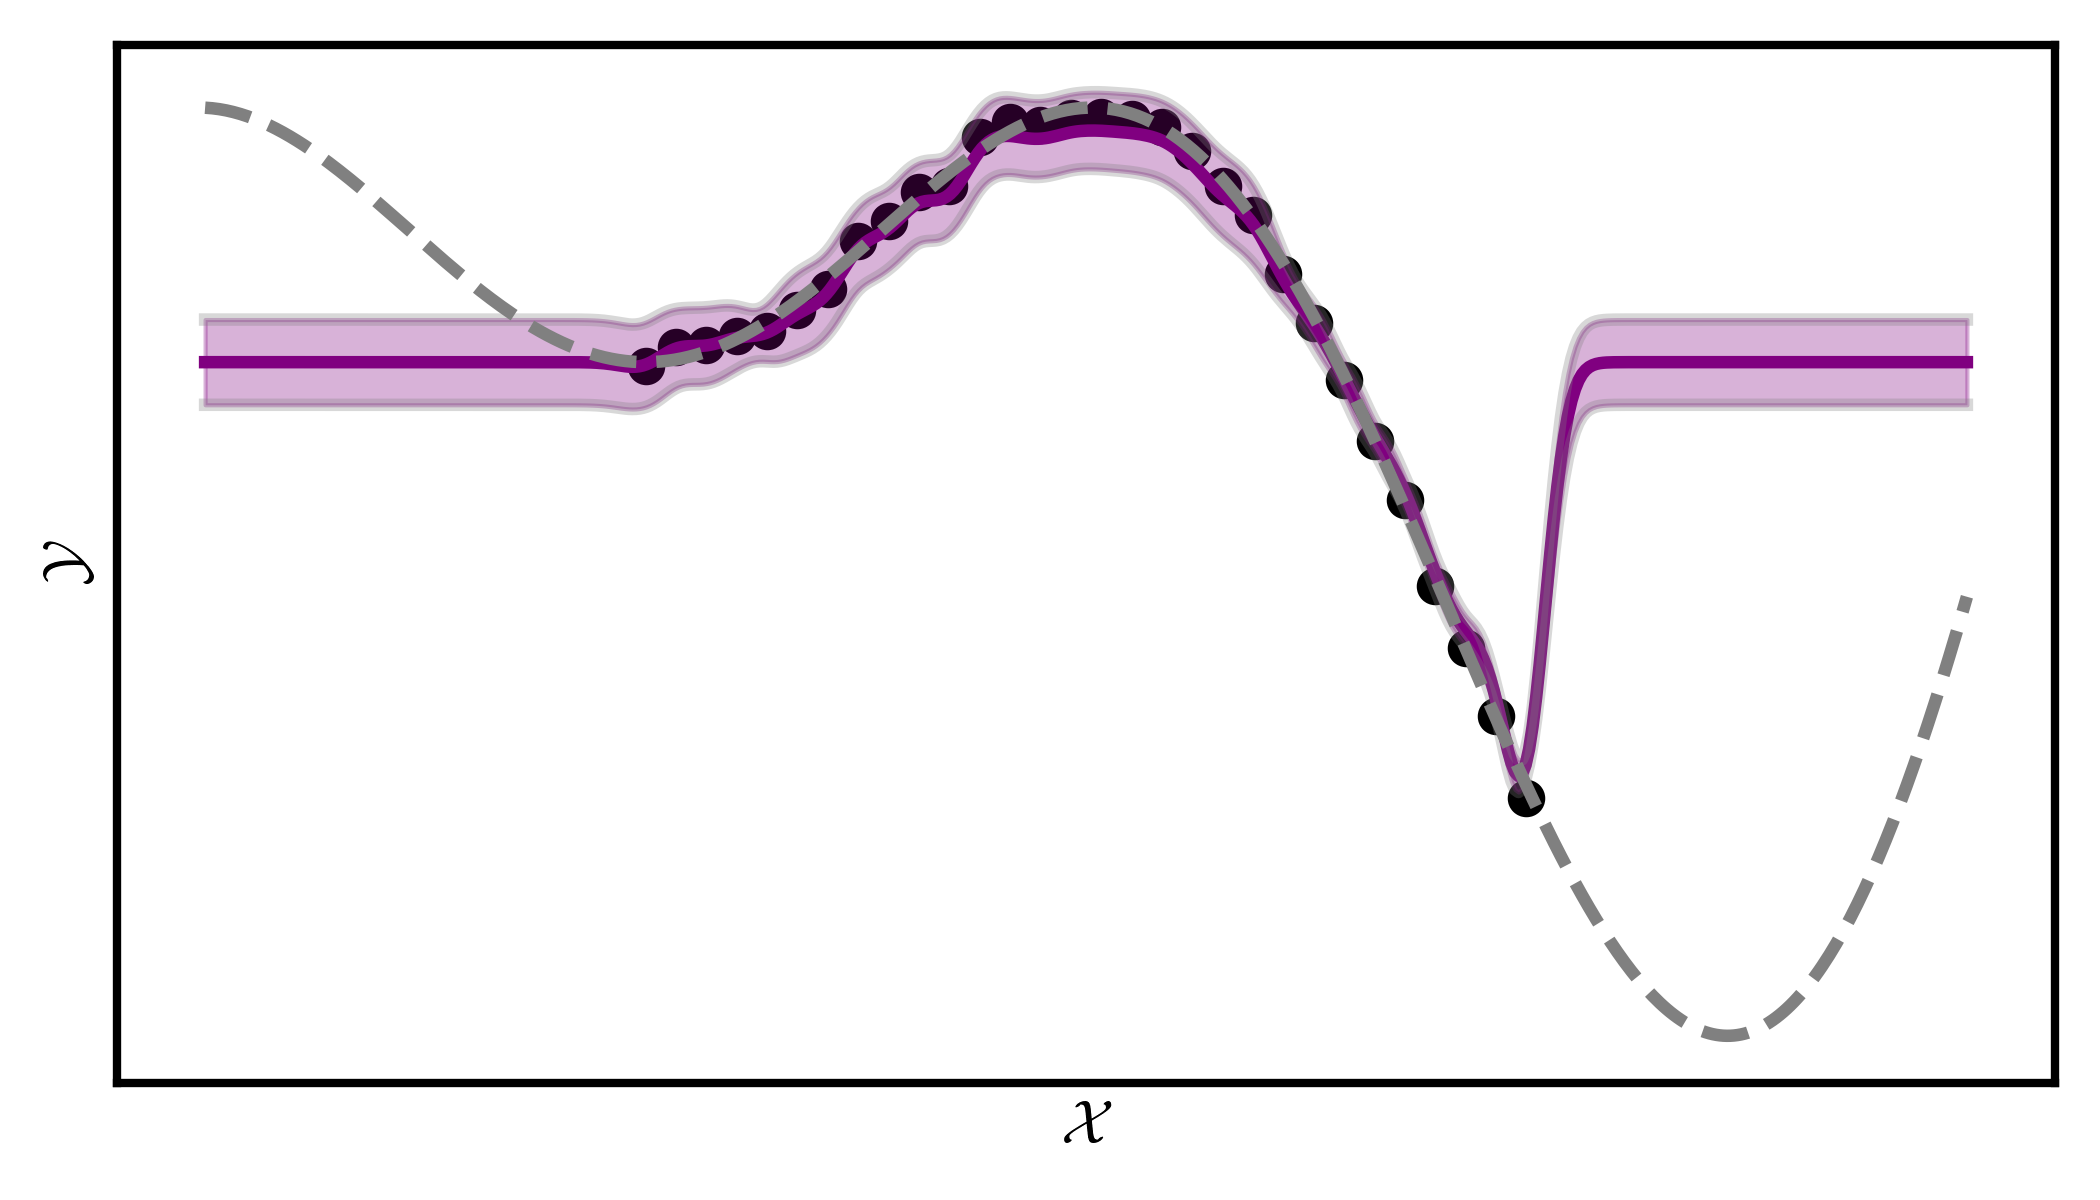
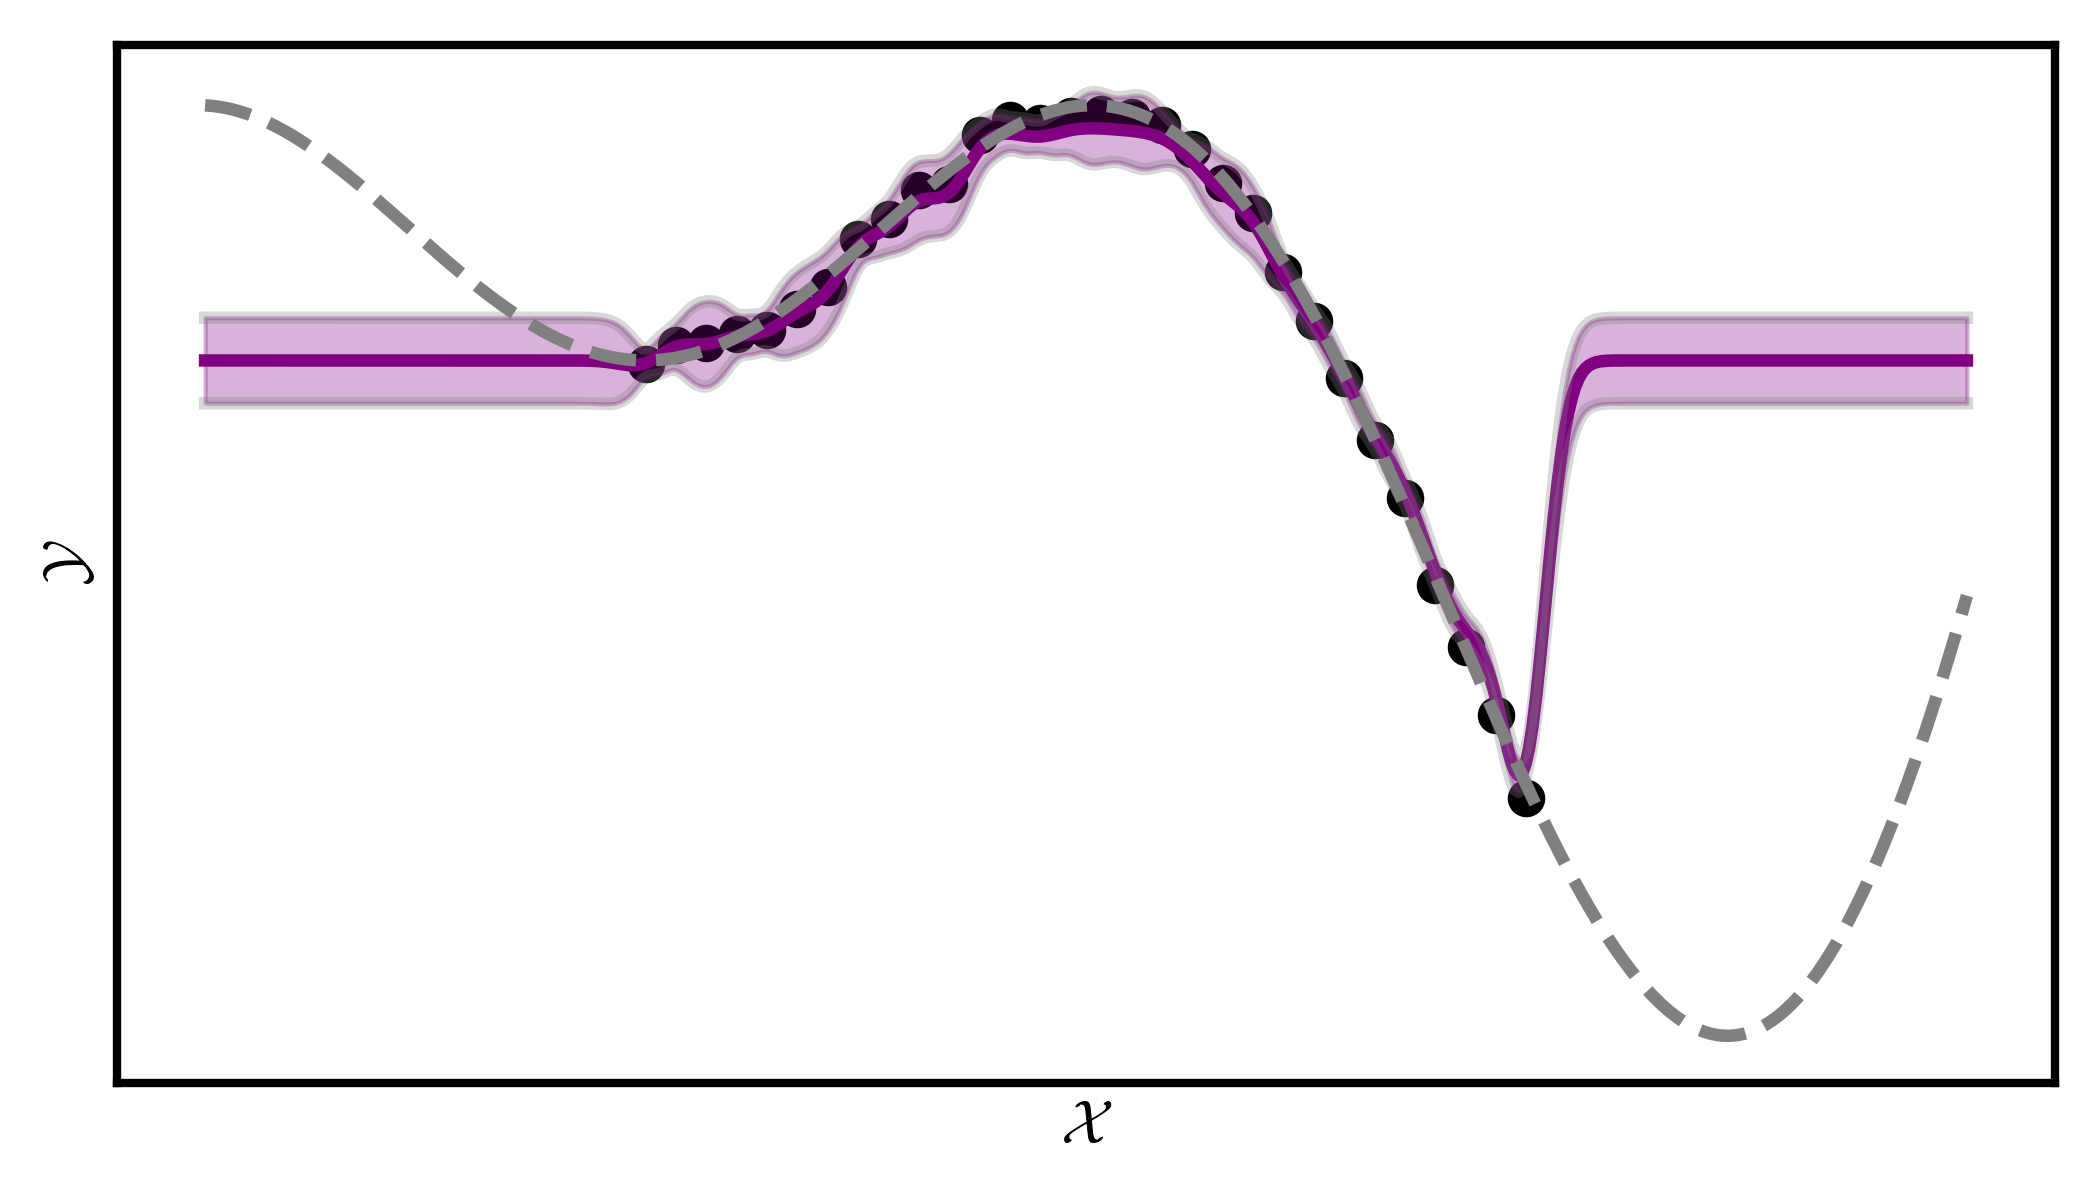
minor changes

Changed region(s): [[0.0929, 0.0617, 0.65, 0.37], [0.7429, 0.2467, 0.9286, 0.3392], [0.65, 0.37, 0.681, 0.4317]]

diff --git a/examples/example_gpr.py b/examples/example_gpr.py
@@ -6,11 +6,17 @@ from src.utils.utils import data_from_func
 from src.solver.classic.pcg import PCG
 from input.testfuncs_1d import oscillatory_increasing_amplitude
 
+# fix random seed
 np.random.seed(42)
+
+n_train = 30  # training points
+n_test = 500  # testing points
+pre_iters = 10  # preconditioning steps
+rank = 20  # solver iterations
 
 # choose function
 func = oscillatory_increasing_amplitude
-X_train, X_test, y_train = data_from_func(f=func, N=30, M=500, xx=[0.0, 4.0, -2.0, 6.0], noise=0.1)
+X_train, X_test, y_train = data_from_func(f=func, N=n_train, M=n_test, xx=[0.0, 4.0, -2.0, 6.0], noise=0.1)
 
 # choose kernel
 kernel = RBFKernel(theta=[1.0, 1.0])
@@ -19,7 +25,7 @@ kernel = RBFKernel(theta=[1.0, 1.0])
 eps = 0.1
 
 # choose solver
-solver = PCG(rank=10, pre_iters=5)
+solver = PCG(rank=rank, pre_iters=pre_iters)
 
 # choose preconditioner
 precon = None

diff --git a/src/solver/classic/pcg.py b/src/solver/classic/pcg.py
@@ -24,7 +24,7 @@ class PCG(Solver):
         if self.pre_iters is None:
             self.P = np.eye(self.N)
         else:
-            L, _ = cholesky(self.A, p=self.pre_iters, rnd_idx=False)  # preconditioning matrix
+            L, _ = cholesky(self.A, p=self.pre_iters, rnd_idx=True)  # preconditioning matrix
             self.P = L[:, :self.pre_iters]
 
         self.x, self.invM = pcg(A=self.A,
